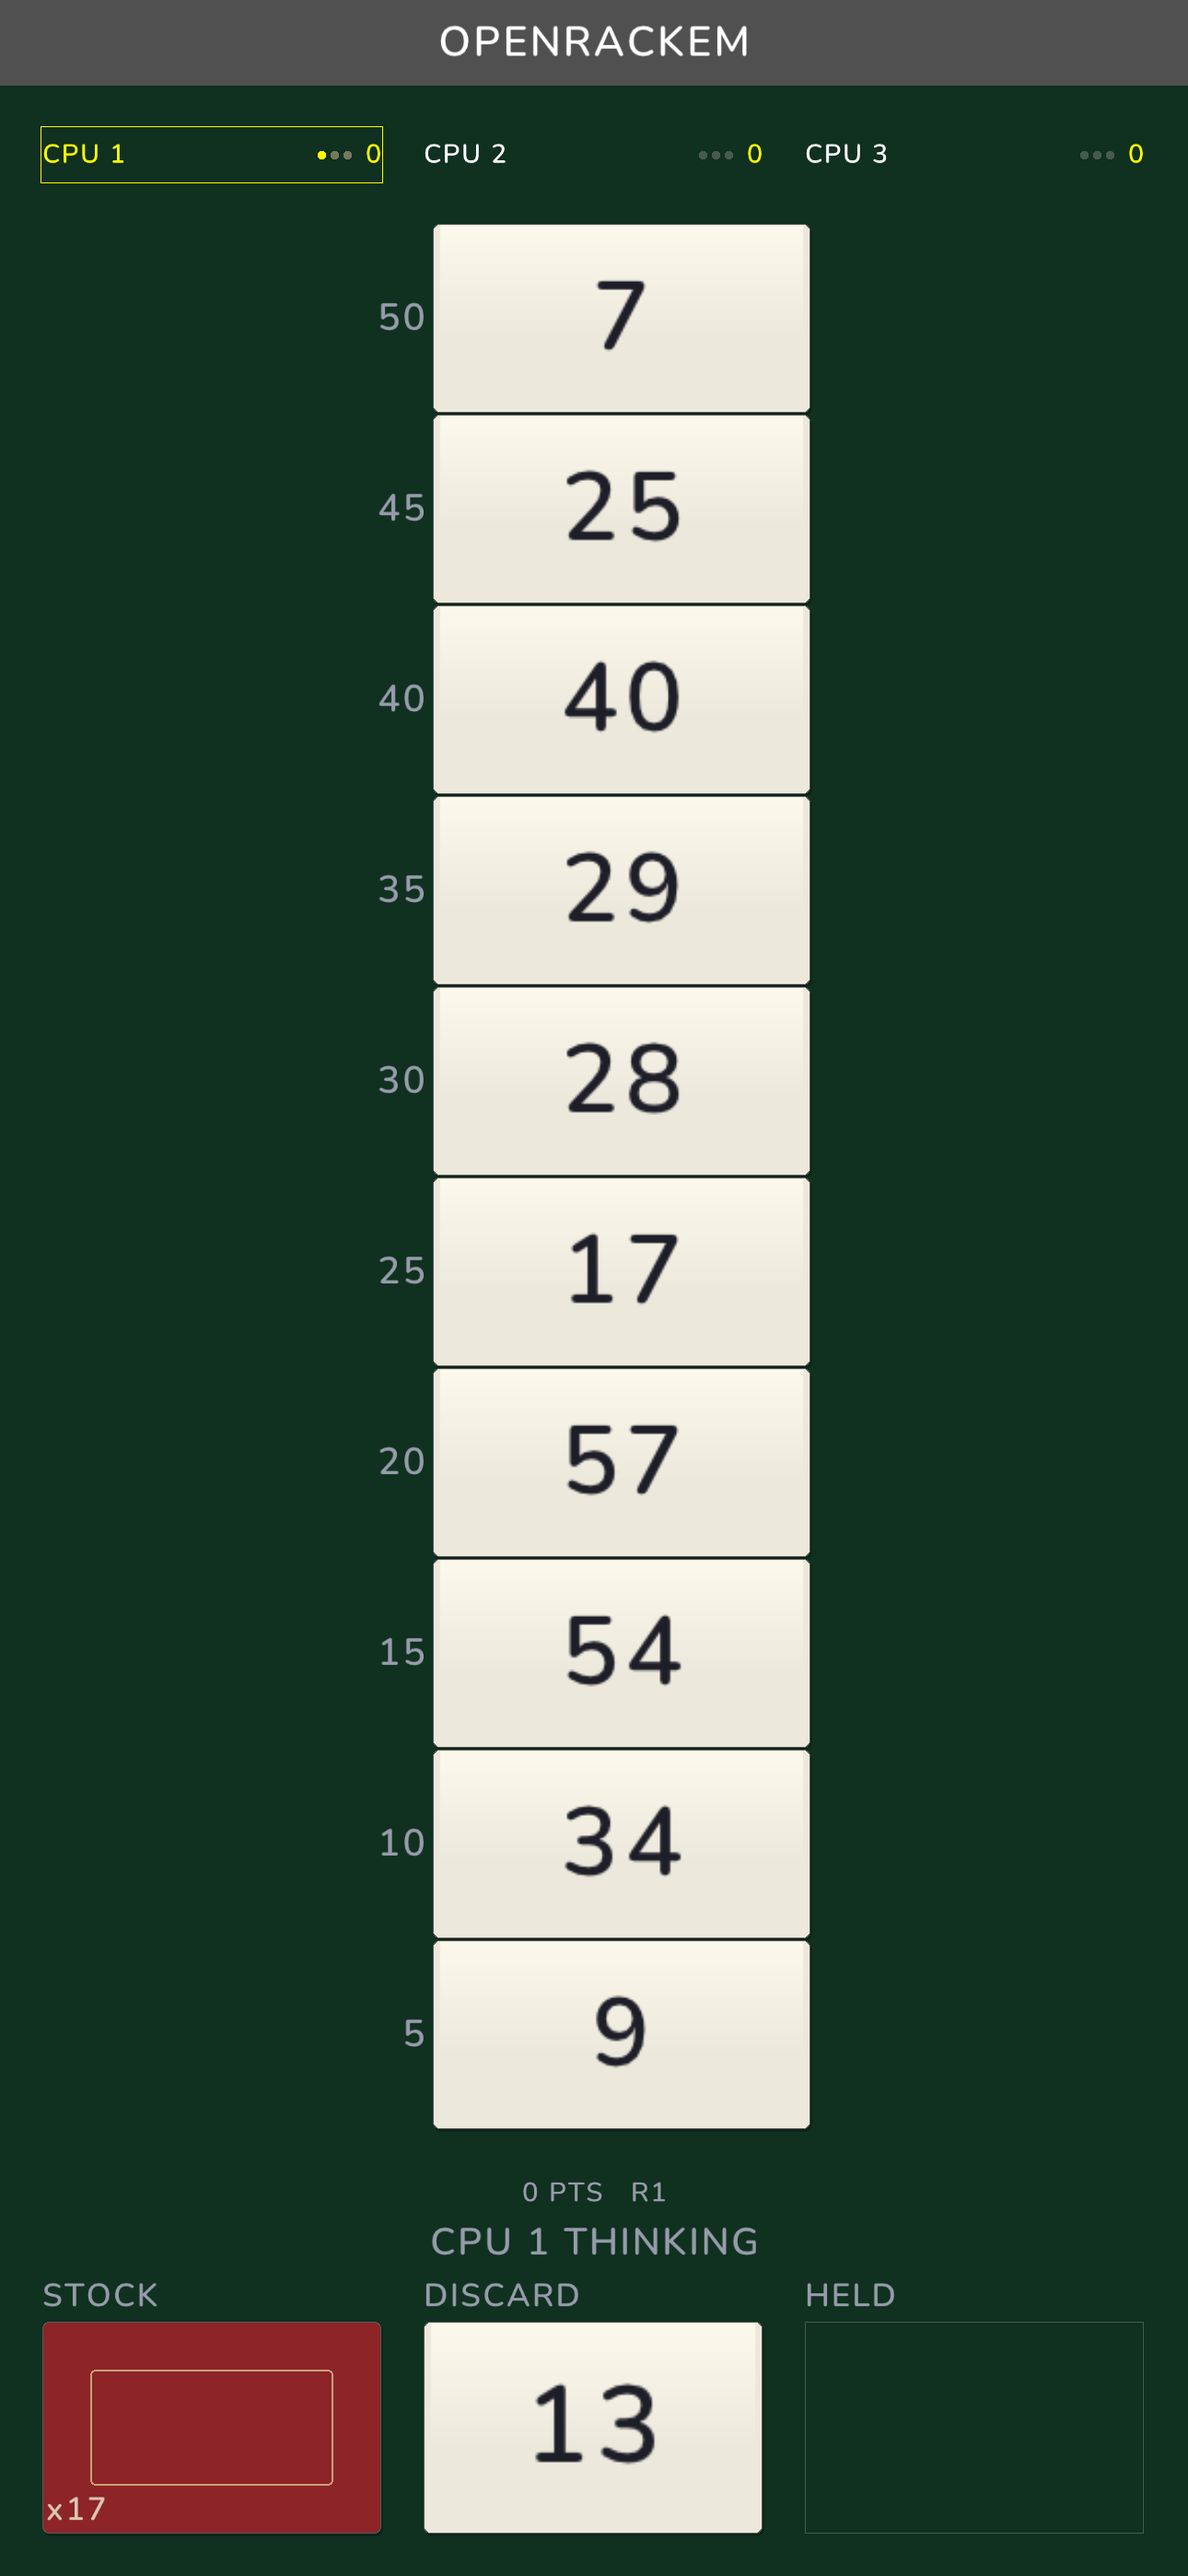
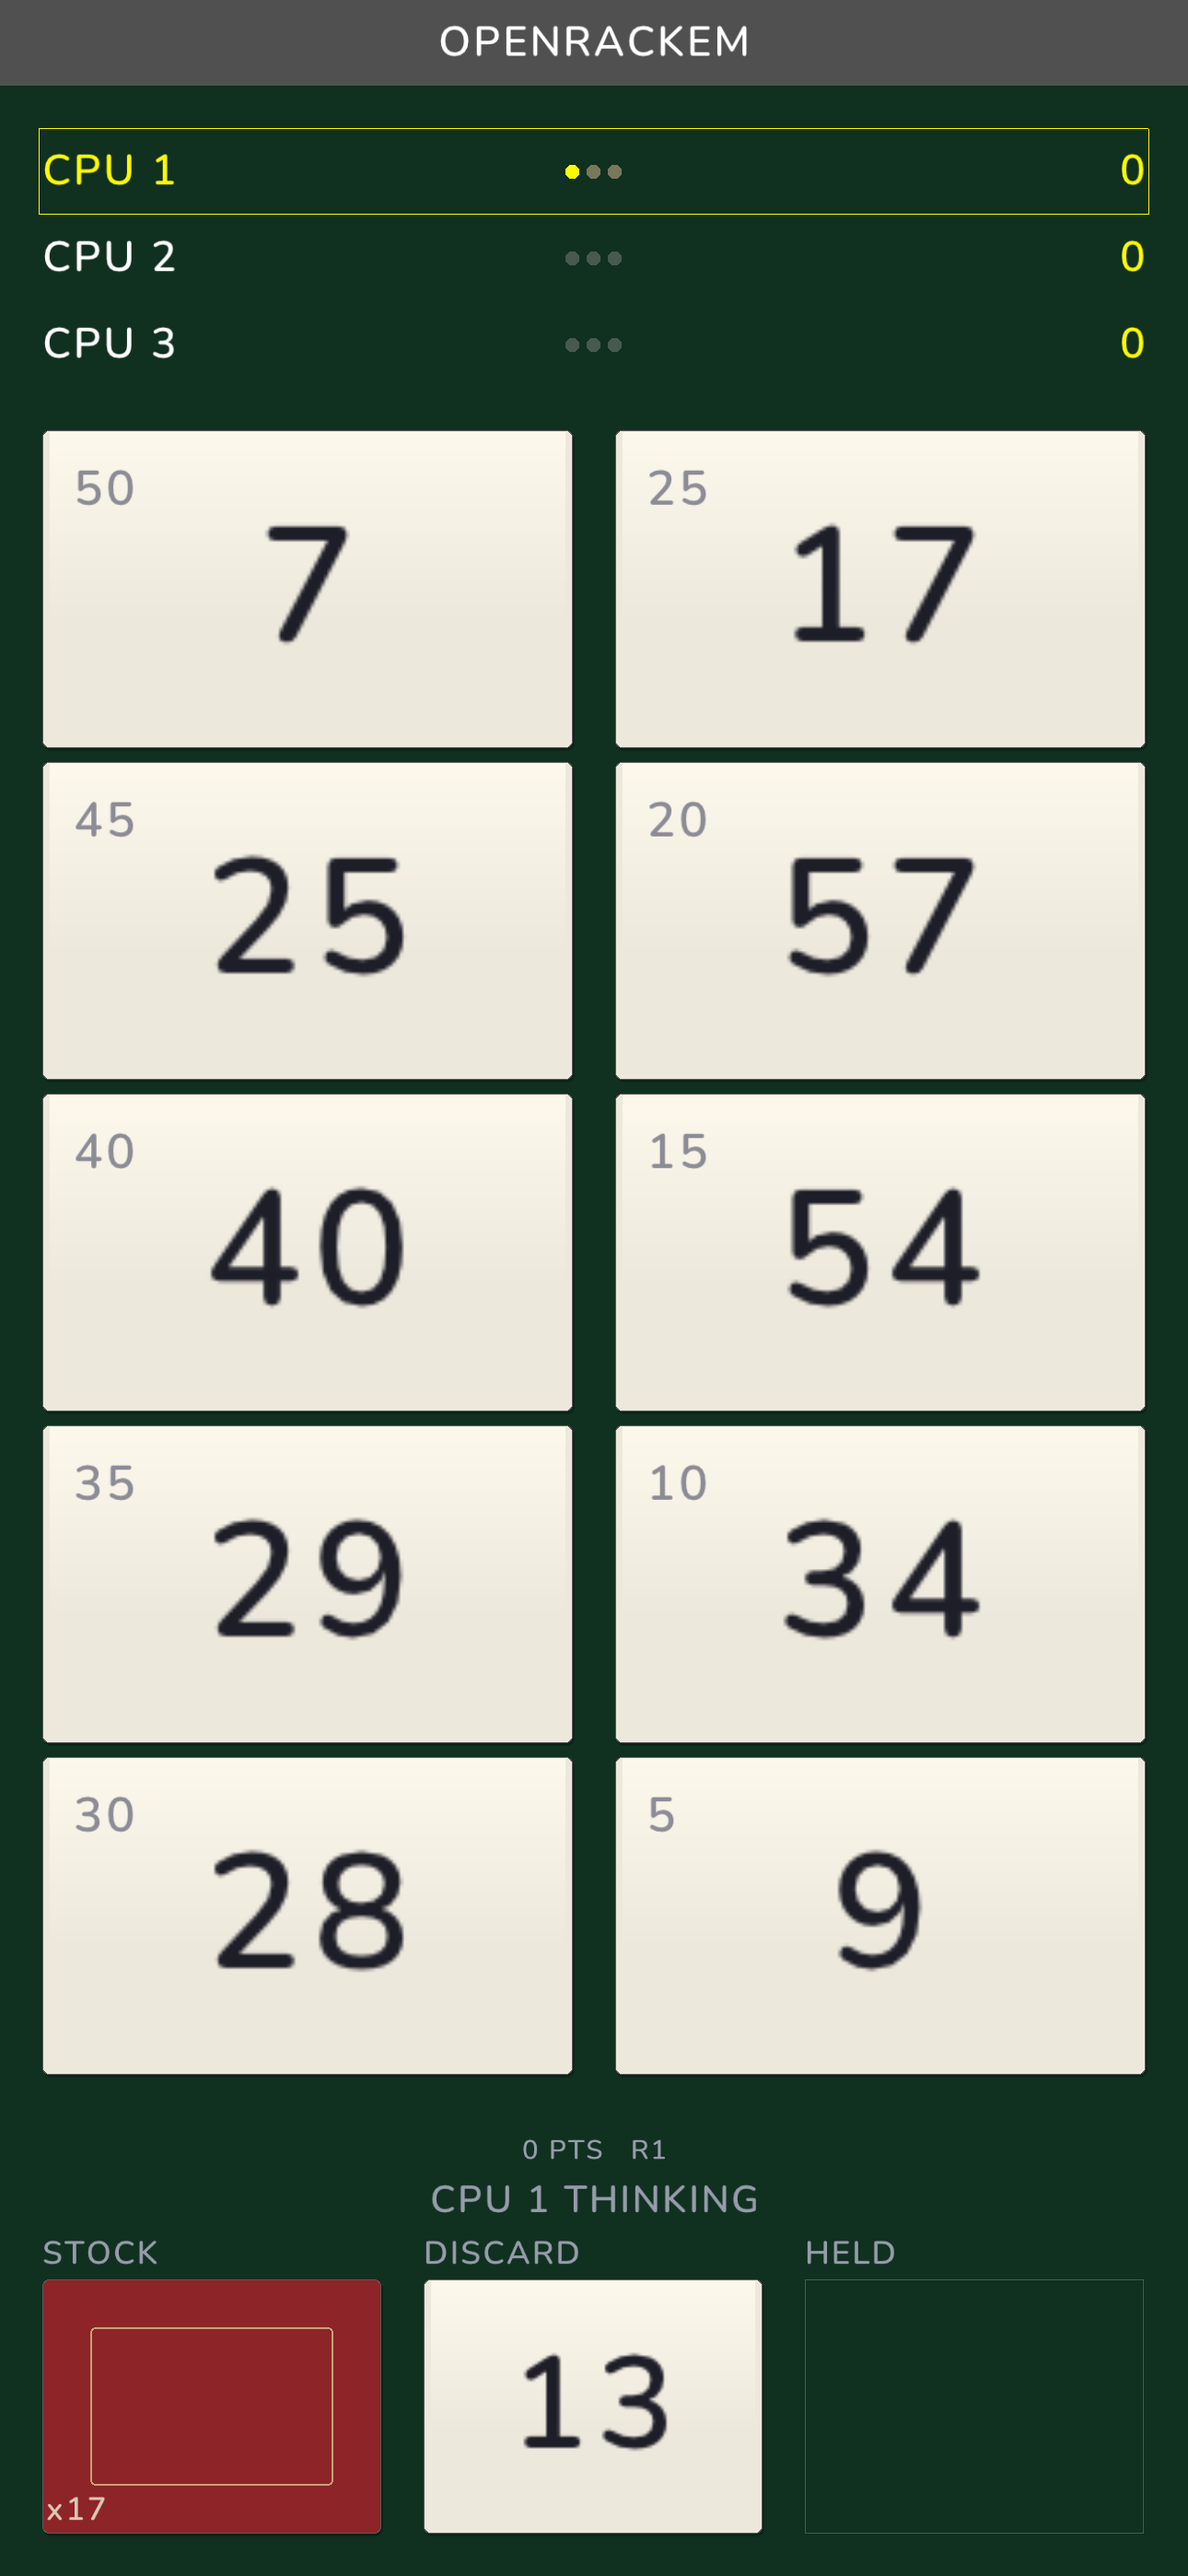
Portrait: two-column rack, in-card slot labels, stacked opponent rows
Measured on an iPhone 12 (1170x2532), the table spent its height on row count
and never spent its width at all: the rack was a 366px column in a 1170px
screen, 432px of bare felt to its left and 372px to its right.

Two rules caused that, and the second is the one that mattered.

card_w = card_h * 2 pinned the rack to a third of a phone's width. It was
written against a 540px test canvas, where it was the right shape.

card_h = available_vertical / RACK_SLOTS, with the printed number at 7/10 of
that, meant the digit size was set by the ROW COUNT, not by the width. So
widening the cards alone would have closed the empty space without making a
single number any bigger -- which is why the cards read as small even at 182px
tall. Only folding the strip could fix it.

The rack is now two columns of five: slots 9..5 (labels 50..30) down the left,
4..0 (25..5) down the right -- the same single descending strip, folded once.
Card width follows the screen. Cards go 366x182 -> 523x308, 2.4x the area, and
the numbers 127px -> 215px, about 42pt -> 72pt at 3x.

The slot number moves inside the card's top-left corner. The gutter it used to
sit in cost the cards width and left the whole group visibly right of centre
(the previous commit corrected the centring arithmetic; this removes the need
for it). Dim ink on a filled card, the pale label colour on an empty one.

Opponents become one full-width row each instead of three blocks sharing the
[…]

diff --git a/src/render_portrait.c b/src/render_portrait.c
@@ -94,13 +94,29 @@ static void draw_title_bar(void) {
 // Everything is derived from the live screen size each frame, so rotation and
 // resize (web) re-fit automatically.
 typedef struct {
-    int m;                       // outer margin
-    int opp_y, opp_h, opp_fs;    // opponents band (one compact row per seat)
-    int stats_y, stats_fs;       // points / round / run, small
-    int status_y, status_fs;     // the instruction line under it, large
-    int rack_y, row, card_w, card_h, rack_x, label_fs;
+    int m;                          // outer margin
+    int opp_y, opp_h, opp_fs, opp_row;  // opponents: one full-width row each
+    int stats_y, stats_fs;          // points / round / run, small
+    int status_y, status_fs;        // the instruction line under it, large
+    // The rack is two columns of five. `rack_x` is the left column's edge and
+    // `col_gap` the space to the right one; `label_fs` sizes the slot number,
+    // which now sits inside the card.
+    int rack_y, row, rows, card_w, card_h, rack_x, col_gap, label_fs;
     int pile_y, pile_w, pile_h, pile_label_fs; // bottom band (3 pile spots)
 } PortraitLayout;
+
+// Where slot `s` sits. Slots 9..5 fill the left column top to bottom (labels 50
+// down to 30) and slots 4..0 the right (25 down to 5): the same single
+// descending strip the rack has always been, folded once so five rows of tall
+// cards fit where ten rows of thin ones used to.
+static Rectangle slot_rect(const PortraitLayout* L, int s) {
+    int half = RACK_SLOTS / 2;
+    int col  = (s < half) ? 1 : 0;
+    int idx  = (col == 0) ? (RACK_SLOTS - 1 - s) : (half - 1 - s);
+    return (Rectangle){ (float)(L->rack_x + col * (L->card_w + L->col_gap)),
+                        (float)(L->rack_y + idx * L->row),
+                        (float)L->card_w, (float)L->card_h };
+}
 
 static void portrait_layout(const Game* game, PortraitLayout* L) {
     int w = GetScreenWidth(), h = GetScreenHeight();
@@ -113,23 +129,23 @@ static void portrait_layout(const Game* game, PortraitLayout* L) {
     // 480px landscape canvas pinned every label at a couple of physical
     // millimetres and made the table unreadable on a real device. The LOWER
     // bounds are the ones that still do work, on the small web canvas.
+    // One full-width row per opponent, not three blocks sharing the width.
+    // Side by side, three names had a third of the screen each and had to be
+    // shrunk to ~12pt to fit; stacked, they keep the full size.
     int nopp = game->rules.player_count - 1;
-    L->opp_fs = clampi(h / 44, 10, 64);
-    // Two or three opponents share the width; shrink so a name, its thinking
-    // dots and the score fit one block without colliding.
-    if (nopp >= 3)      L->opp_fs = L->opp_fs * 5 / 8;
-    else if (nopp == 2) L->opp_fs = L->opp_fs * 4 / 5;
+    L->opp_fs  = clampi(h / 44, 10, 64);
+    L->opp_row = L->opp_fs * 3 / 2;
     L->m = m;
     L->opp_y = tb + m;
-    L->opp_h = (nopp > 0) ? L->opp_fs * 3 / 2 : 0;
+    L->opp_h = (nopp > 0) ? nopp * L->opp_row : 0;
 
     L->pile_label_fs = clampi(h / 52, 9, 48);
     L->pile_w = (w - 4 * m) / 3;
-    L->pile_h = L->pile_w * 5 / 8;
+    L->pile_h = L->pile_w * 3 / 4;
     // Keep the bottom band from swallowing a squat screen: cap at h/6.
     if (L->pile_h > h / 6) {
         L->pile_h = h / 6;
-        L->pile_w = L->pile_h * 8 / 5;
+        L->pile_w = L->pile_h * 4 / 3;
     }
     L->pile_y = h - m - L->pile_h;
 
@@ -141,18 +157,22 @@ static void portrait_layout(const Game* game, PortraitLayout* L) {
     L->stats_y  = L->pile_y - L->pile_label_fs - 6 - status_h;
     L->status_y = L->stats_y + L->stats_fs + 6;
 
+    // Five rows of two. Card width follows the screen instead of the old
+    // card_h*2 rule, which pinned the rack to a third of a phone's width and
+    // left the other two thirds as bare felt; card height follows the row,
+    // and the printed number is 7/10 of that, so halving the row count is what
+    // actually makes the numbers bigger.
     int rack_top = L->opp_y + L->opp_h + m;
     int avail = L->stats_y - m - rack_top;
-    L->row = avail / RACK_SLOTS;
-    L->card_h = L->row - 2;
+    L->rows = RACK_SLOTS / 2;
+    L->row = avail / L->rows;
+    L->card_h = L->row - m / 3;
     if (L->card_h < 8) L->card_h = 8;
-    L->card_w = clampi(L->card_h * 2, L->card_h + 24, w / 2);
-    L->label_fs = clampi(L->card_h / 2, 9, 56);
-    // Centre the rack as it reads: the slot labels sit outside the cards, so
-    // centring the card alone leaves the whole group visibly right of centre.
-    int label_w = gfx_measure_text("50", L->label_fs) + 8;
-    L->rack_x = (w - L->card_w + label_w) / 2;
-    L->rack_y = rack_top + (avail - L->row * RACK_SLOTS) / 2;
+    L->col_gap = m;
+    L->card_w = (w - 2 * m - L->col_gap) / 2;
+    L->rack_x = m;
+    L->rack_y = rack_top + (avail - L->row * L->rows) / 2;
+    L->label_fs = clampi(L->card_h / 4, 9, 72);
 }
 
 // Three dots beside an opponent's name, standing in for the card backs that
@@ -199,51 +219,61 @@ static void draw_table_portrait(const Game* game, const TableUi* ui) {
     // vertical space the rack itself needs to be legible on a phone.
     int nopp = game->rules.player_count - 1;
     if (nopp > 0) {
-        int bw = (w - L.m * (nopp + 1)) / nopp;
         int bi = 0;
         for (int s = 0; s < game->rules.player_count; s++) {
             if (s == focus) continue;
-            int bx = L.m + bi * (bw + L.m);
+            int by = L.opp_y + bi * L.opp_row;
+            int ty = by + (L.opp_row - L.opp_fs) / 2;
             bool their_turn = (game->turn == s &&
                                (game->phase == PHASE_DRAW || game->phase == PHASE_PLACE));
             if (their_turn) {
-                gfx_rect_lines(bx - 2, L.opp_y - 2, bw + 4, L.opp_h + 4, ACCENT);
+                gfx_rect_lines(L.m - 4, by, w - 2 * L.m + 8, L.opp_row, ACCENT);
             }
             snprintf(buf, sizeof buf, "%d", game->players[s].score);
-            int score_w = gfx_measure_text(buf, L.opp_fs);
-            int dots_w  = L.opp_fs;             // three dots plus their gaps
-            gfx_text(buf, bx + bw - score_w, L.opp_y + (L.opp_h - L.opp_fs) / 2,
-                     L.opp_fs, YELLOW);
-            draw_thinking_dots(bx + bw - score_w - L.opp_fs / 3 - dots_w,
-                               L.opp_y + L.opp_h / 2, L.opp_fs, their_turn);
+            gfx_text(buf, w - L.m - gfx_measure_text(buf, L.opp_fs), ty, L.opp_fs, YELLOW);
 
-            // Names are player-chosen online, so shrink one that would run
-            // into the dots rather than letting it overlap them.
+            // Dots on a fixed centre column so the rows line up as a table.
+            int dots_w = L.opp_fs;
+            draw_thinking_dots(w / 2 - dots_w / 2, by + L.opp_row / 2, L.opp_fs,
+                               their_turn);
+
+            // Names are player-chosen online, so shrink one that would run into
+            // the dots rather than letting it overlap them.
             const char* nm = seat_name(game, s);
-            int room = bw - score_w - dots_w - L.opp_fs;
+            int room = w / 2 - dots_w / 2 - L.m - L.opp_fs / 2;
             int nfs = L.opp_fs;
             while (nfs > 8 && gfx_measure_text(nm, nfs) > room) nfs -= 1;
-            gfx_text(nm, bx, L.opp_y + (L.opp_h - nfs) / 2, nfs,
+            gfx_text(nm, L.m, by + (L.opp_row - nfs) / 2, nfs,
                      their_turn ? ACCENT : WHITE);
             bi++;
         }
     }
 
-    // The rack: slot #50 on top, labels left of each card, full-width tap rows.
+    // The rack: two columns of five, slot #50 top-left, #5 bottom-right. The
+    // slot number is printed inside the card's top-left corner -- the old
+    // outside gutter cost the cards width and left the whole group sitting
+    // right of centre.
     int dealt = deal_cards_for_seat(game, focus);
     for (int s = RACK_SLOTS - 1; s >= 0; s--) {
-        int y = L.rack_y + (RACK_SLOTS - 1 - s) * L.row;
-        snprintf(buf, sizeof buf, "%d", (s + 1) * 5);
-        gfx_text(buf, L.rack_x - 8 - gfx_measure_text(buf, L.label_fs),
-                 y + (L.card_h - L.label_fs) / 2, L.label_fs, SLOT_LABEL);
-        if (RACK_SLOTS - 1 - s < dealt) {
+        Rectangle r = slot_rect(&L, s);
+        int x = (int)r.x, y = (int)r.y;
+        bool filled = (RACK_SLOTS - 1 - s < dealt);
+        if (filled) {
             bool cur = (human_turn && game->phase == PHASE_PLACE && ui->cursor == s);
-            draw_card(L.rack_x, y, L.card_w, L.card_h,
+            draw_card(x, y, L.card_w, L.card_h,
                       game->players[focus].rack.slots[s], true, cur);
         } else {
-            draw_card_outline(L.rack_x, y, L.card_w, L.card_h);
+            draw_card_outline(x, y, L.card_w, L.card_h);
         }
-        table_hit_set(s, (Rectangle){0, (float)y, (float)w, (float)L.row});
+        snprintf(buf, sizeof buf, "%d", (s + 1) * 5);
+        // Dim ink on the pale card face, the pale label colour on bare felt.
+        gfx_text(buf, x + L.card_h / 10, y + L.card_h / 12, L.label_fs,
+                 filled ? (Color){140, 140, 150, 255} : SLOT_LABEL);
+        // Tap target: the card plus the gaps around it, so the whole row band
+        // stays live and no dead strip sits between the columns.
+        table_hit_set(s, (Rectangle){r.x - L.col_gap / 2.0f,
+                                     r.y - (L.row - L.card_h) / 2.0f,
+                                     r.width + L.col_gap, (float)L.row});
     }
 
     // Status line: score, round, whose turn / what a tap does.
@@ -351,16 +381,16 @@ static void draw_table_portrait(const Game* game, const TableUi* ui) {
             break;
         case ANIM_PLACE:
             if (game->anim.seat == focus) {
-                int y = L.rack_y + (RACK_SLOTS - 1 - game->anim.slot) * L.row;
-                from = (Rectangle){(float)L.rack_x, (float)y, (float)L.card_w, (float)L.card_h};
+                from = slot_rect(&L, game->anim.slot);
             } else {
                 int bi = 0;
                 for (int s = 0; s < game->anim.seat; s++) {
                     if (s != focus) bi++;
                 }
-                int bw = (w - L.m * (game->rules.player_count)) / (game->rules.player_count - 1);
-                from = (Rectangle){(float)(L.m + bi * (bw + L.m) + bw / 2 - 12),
-                                   (float)(L.opp_y + 4), 24.0f, (float)(L.opp_h - 8)};
+                // Out of their row, from the middle of it.
+                from = (Rectangle){(float)(w / 2 - L.opp_row / 2),
+                                   (float)(L.opp_y + bi * L.opp_row),
+                                   (float)L.opp_row, (float)L.opp_row};
             }
             draw_flying_card(from, discard_r, t, game->anim.card, true);
             break;
